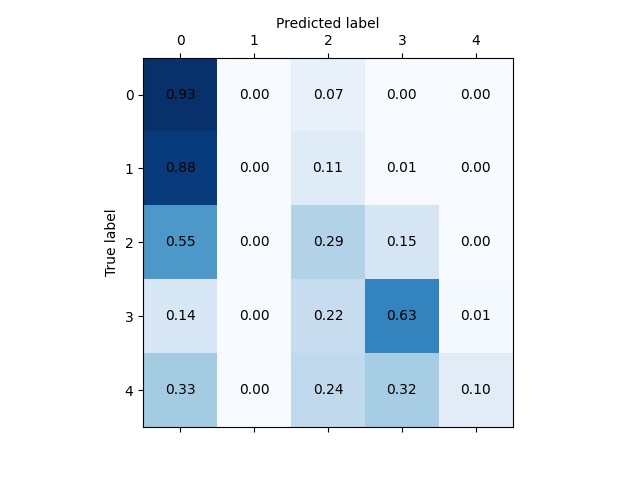
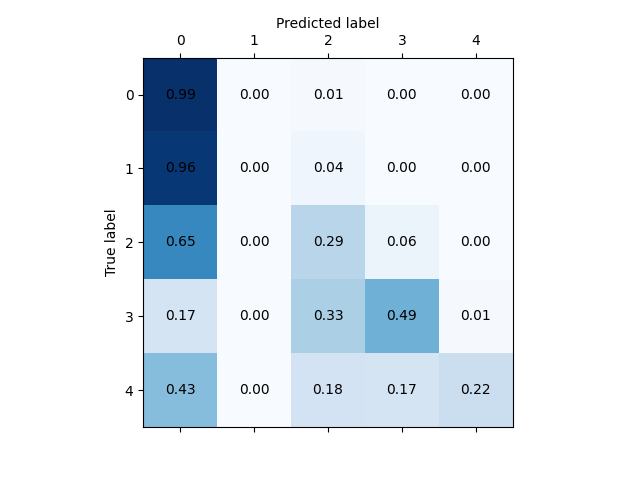
demo

diff --git a/hw4/hw4_demo.py b/hw4/hw4_demo.py
@@ -1,0 +1,106 @@
+import torch
+from torch.utils.data import Dataset,DataLoader
+from torchvision import transforms,models
+import torch.nn as nn
+import torch.optim as optim
+import copy
+import os
+from PIL import Image
+import numpy as np
+import pandas as pd
+import matplotlib.pyplot as plt
+from dataloader import RetinopathyLoader
+
+
+class ResNet18(nn.Module):
+    def __init__(self,num_class,pretrained=False):
+        """
+        Args:
+            num_class: #target class
+            pretrained:
+                True: the model will have pretrained weights, and only the last layer's 'requires_grad' is True(trainable)
+                False: random initialize weights, and all layer's 'require_grad' is True
+        """
+        super(ResNet18,self).__init__()
+        self.model=models.resnet18(pretrained=pretrained)
+        if pretrained:
+            for param in self.model.parameters():
+                param.requires_grad=False
+        num_neurons=self.model.fc.in_features
+        self.model.fc=nn.Linear(num_neurons,num_class)
+
+    def forward(self,X):
+        out=self.model(X)
+        return out
+
+class ResNet50(nn.Module):
+    def __init__(self,num_class,pretrained=False):
+        """
+        Args:
+            num_class: #target class
+            pretrained:
+                True: the model will have pretrained weights, and only the last layer's 'requires_grad' is True(trainable)
+                False: random initialize weights, and all layer's 'require_grad' is True
+        """
+        super(ResNet50,self).__init__()
+        self.model=models.resnet50(pretrained=pretrained)
+        if pretrained:
+            for param in self.model.parameters():
+                param.requires_grad=False
+        num_neurons=self.model.fc.in_features
+        self.model.fc=nn.Linear(num_neurons,num_class)
+
+    def forward(self,X):
+        out=self.model(X)
+        return out
+
+
+
+def evaluate(model,loader_test,device,num_class):
+    print('------ start evaluate ------')
+    """
+    Args:
+        model: resnet model
+        loader_test: testing dataloader
+        device: gpu/cpu
+        num_class: #target class
+    Returns:
+        confusion_matrix: (num_class,num_class) ndarray
+        acc: accuracy rate
+    """
+    confusion_matrix=np.zeros((num_class,num_class))
+
+    with torch.set_grad_enabled(False):
+        model.eval()
+        correct=0
+        for images,targets in loader_test:
+            images,targets=images.to(device),targets.to(device,dtype=torch.long)
+            predict=model(images)
+            predict_class=predict.max(dim=1)[1]
+            correct+=predict_class.eq(targets).sum().item()
+            for i in range(len(targets)):
+                confusion_matrix[int(targets[i])][int(predict_class[i])]+=1
+        acc=100.*correct/len(loader_test.dataset)
+
+    # normalize confusion_matrix
+    confusion_matrix=confusion_matrix/confusion_matrix.sum(axis=1).reshape(num_class,1)
+
+    return confusion_matrix,acc
+
+
+
+
+if __name__ == '__main__':
+    print(torch.__version__)
+    print(torch.cuda.is_available())
+    device=torch.device('cuda' if torch.cuda.is_available() else 'cpu')
+
+    dataset_test=RetinopathyLoader(img_path='data',mode='test')
+    loader_test=DataLoader(dataset=dataset_test,batch_size=4,shuffle=False,num_workers=4)
+
+
+    model_demo = ResNet18(num_class=5,pretrained=True)
+    model_demo.load_state_dict(torch.load('models/resnet18_with_pretraining.pt'))
+    model_demo = model_demo.to(device)
+    confusion_matrix,acc = evaluate(model_demo,loader_test,device,5)
+    print('acc = ',acc)

diff --git a/hw4/hw4.py b/hw4/hw4.py
@@ -195,14 +195,14 @@ if __name__ == '__main__':
     device=torch.device('cuda' if torch.cuda.is_available() else 'cpu')
 
     num_class = 5
-    batch_size = 2
+    batch_size = 4
     lr = 1e-3
-    epochs = 5
+    epochs = 10
     epochs_feature_extraction = 2
-    epochs_fine_tuning = 3
+    epochs_fine_tuning = 8
     momentum = 0.9
     weight_decay = 5e-4
-    Loss = nn.CrossEntropyLoss()
+    Loss = nn.CrossEntropyLoss(weight=torch.Tensor([1.0,10.565217391304348,4.906175771971497,29.591690544412607,35.55077452667814]).to(device))
 
     dataset_train=RetinopathyLoader(img_path='data',mode='train')
     loader_train=DataLoader(dataset=dataset_train,batch_size=batch_size,shuffle=True,num_workers=4)
@@ -261,14 +261,14 @@ if __name__ == '__main__':
 
 
     num_class = 5
-    batch_size = 2
+    batch_size = 4
     lr = 1e-3
-    epochs = 10
+    epochs = 20
     epochs_feature_extraction = 4
-    epochs_fine_tuning = 6
+    epochs_fine_tuning = 16
     momentum = 0.9
     weight_decay = 5e-4
-    Loss = nn.CrossEntropyLoss()
+    Loss = nn.CrossEntropyLoss(weight=torch.Tensor([1.0,10.565217391304348,4.906175771971497,29.591690544412607,35.55077452667814]).to(device))
 
     """
     resnet18 without pretrained weights
